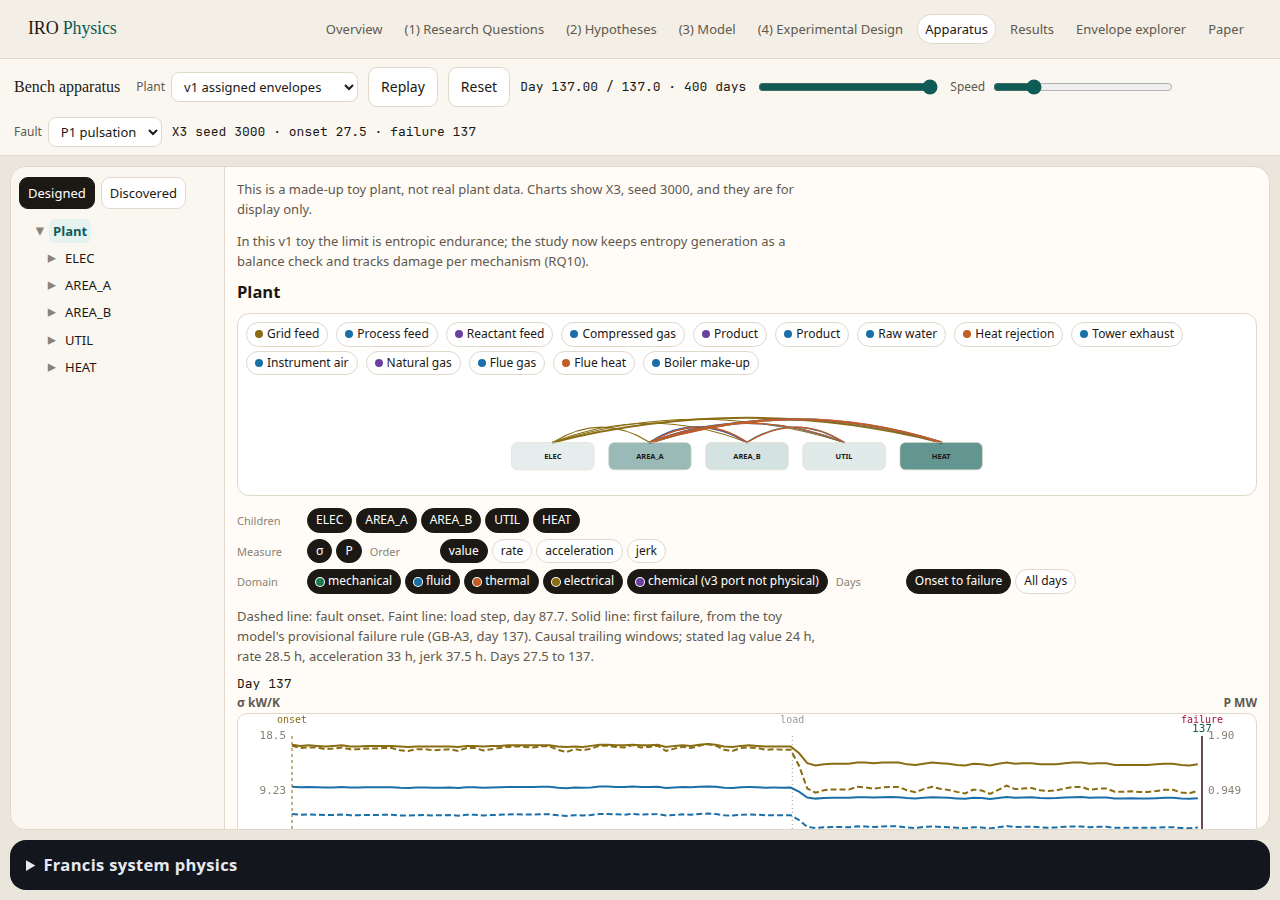
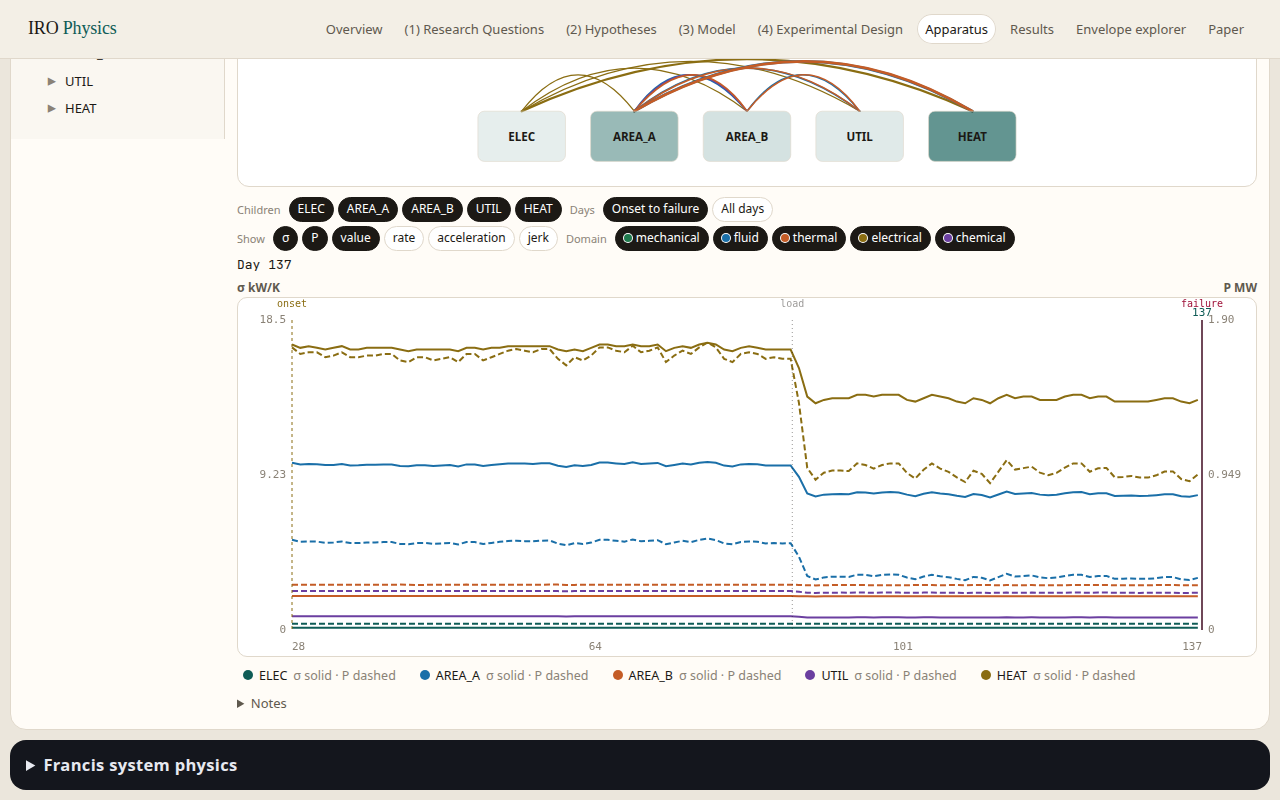
Give the v3 chart half the window and stop clipping it
The plot is 45% of the viewport and the children diagram is 30%. Notes sit in a toggle under the legend, the page can scroll, and the Francis bar stays below the chart.

diff --git a/site/js/envelope-board.js b/site/js/envelope-board.js
@@ -119,26 +119,30 @@ export function mountBoard(root, { clock, onSpan } = {}) {
         <div class="nav-tree" data-nav-tree></div>
       </aside>
       <div class="board-main">
-        <p class="ex-note" data-notice>This is a made-up toy plant, not real plant data. The charts are for display only.</p>
-        <p class="ex-note" data-caveat>In this v1 toy the limit is entropic endurance; the study now keeps entropy generation as a balance check and tracks damage per mechanism (RQ10).</p>
         <nav class="crumbs" data-crumbs aria-label="Envelope path"></nav>
         <div class="board-top">
           <div class="port-row" data-ports></div>
-          <p class="ex-note port-note" data-port></p>
           <div class="diagram" data-diagram></div>
         </div>
         <div class="filters" data-filters></div>
-        <p class="ex-note" data-chart-note></p>
         <p class="now-read" data-now></p>
         <div class="axis-labels"><span data-axis-left></span><span data-axis-right></span></div>
         <div class="chart-stage">
           <canvas data-chart></canvas>
           <div class="readout" data-readout hidden></div>
         </div>
-        <p class="scale-note" data-scale-note></p>
         <ul class="trace-legend" data-legend></ul>
-        <p class="sigma-check">σ is shown as an energy-balance check, not a damage measure.</p>
-        <p class="plant-sigma" data-plant-caption hidden></p>
+        <details class="board-notes">
+          <summary>Notes</summary>
+          <p class="ex-note" data-notice>This is a made-up toy plant, not real plant data. The charts are for display only.</p>
+          <p class="ex-note" data-caveat>In this v1 toy the limit is entropic endurance; the study now keeps entropy generation as a balance check and tracks damage per mechanism (RQ10).</p>
+          <p class="ex-note" data-chart-note></p>
+          <p class="ex-note port-note" data-port></p>
+          <p class="scale-note" data-scale-note></p>
+          <p class="ex-note">Chemical is labelled chemical (v3 port not physical): the v3 chemical port is not a physical species balance.</p>
+          <p class="sigma-check">σ is shown as an energy-balance check, not a damage measure.</p>
+          <p class="plant-sigma" data-plant-caption hidden></p>
+        </details>
       </div>
     </div>`;
 
@@ -460,7 +464,7 @@ export function mountBoard(root, { clock, onSpan } = {}) {
   function renderPorts() {
     const ports = portsOf(node(parentId)).filter((entry) => domainsOn.has(entry.domain));
     portsEl.innerHTML = ports.map((entry) =>
-      `<button type="button" class="port-chip" data-port-detail="${esc(entry.detail)}" title="${esc(entry.detail)}"><i style="background:${DOMAIN[entry.domain] || "#888"}"></i>${esc(entry.name)}</button>`
+      `<button type="button" class="port-dot" data-port-detail="${esc(entry.detail)}" title="${esc(entry.detail)}" aria-label="${esc(entry.detail)}"><i style="background:${DOMAIN[entry.domain] || "#888"}"></i></button>`
     ).join("");
   }
 
@@ -496,14 +500,14 @@ export function mountBoard(root, { clock, onSpan } = {}) {
       return;
     }
     const width = 860;
-    const height = 210;
-    const boxW = Math.min(148, Math.max(78, (width - 48) / children.length - 18));
-    const boxH = 48;
-    const span = width - 36 - boxW;
+    const height = 320;
+    const boxW = Math.min(210, Math.max(128, (width - 40) / children.length - 28));
+    const boxH = 78;
+    const span = width - 24 - boxW;
     const boxes = {};
     children.forEach((child, index) => {
-      const x = 18 + (children.length === 1 ? (width - boxW) / 2 : (span * index) / (children.length - 1));
-      boxes[child.id] = { x, y: 118, w: boxW, h: boxH, child, index };
+      const x = 12 + (children.length === 1 ? (width - boxW) / 2 : (span * index) / Math.max(1, children.length - 1));
+      boxes[child.id] = { x, y: 210, w: boxW, h: boxH, child, index };
     });
     const groups = new Map();
     edges.forEach((edge) => {
@@ -523,7 +527,7 @@ export function mountBoard(root, { clock, onSpan } = {}) {
         const y2 = b.y;
         const shift = (index - (list.length - 1) / 2) * 7;
         const mid = (x1 + x2) / 2 + shift;
-        const lift = 78 - Math.min(46, Math.abs(x2 - x1) * 0.08);
+        const lift = 118 - Math.min(70, Math.abs(x2 - x1) * 0.12);
         const pa = liveValue(edge.a, "boundary_power");
         const pb = liveValue(edge.b, "boundary_power");
         const flow = pa != null && pb != null ? (Math.abs(pa) + Math.abs(pb)) / 2 : null;
@@ -541,7 +545,7 @@ export function mountBoard(root, { clock, onSpan } = {}) {
       const fill = level ? `rgba(15,92,86,${(0.1 + 0.55 * level).toFixed(3)})` : (on ? "#e5f2f0" : "#fff");
       return `<g data-child="${esc(child.id)}" tabindex="0" role="button" aria-pressed="${on ? "true" : "false"}">
         <rect x="${box.x.toFixed(1)}" y="${box.y}" width="${box.w}" height="${box.h}" rx="10" fill="${fill}" stroke="${on ? "#0f5c56" : "#e0d8cb"}" stroke-width="${on ? 2.4 : 1}"></rect>
-        <text x="${(box.x + box.w / 2).toFixed(1)}" y="${box.y + 29}" text-anchor="middle" font-size="13" font-weight="650" fill="#1c1915">${esc(labelOf(child))}</text>
+        <text x="${(box.x + box.w / 2).toFixed(1)}" y="${box.y + 46}" text-anchor="middle" font-size="18" font-weight="700" fill="#1c1915">${esc(labelOf(child))}</text>
         <title>${esc(child.name)}</title>
       </g>`;
     }).join("");
@@ -564,15 +568,14 @@ export function mountBoard(root, { clock, onSpan } = {}) {
       `<button type="button" class="chip-btn" data-order="${index}" aria-pressed="${orders.has(index) ? "true" : "false"}">${orderTitle(meta, index)}</button>`
     ).join("");
     const domainChips = Object.keys(DOMAIN).map((name) =>
-      `<button type="button" class="chip-btn" data-domain="${name}" aria-pressed="${domainsOn.has(name) ? "true" : "false"}"><i style="background:${DOMAIN[name]}"></i>${esc(domainLabel(name))}</button>`
+      `<button type="button" class="chip-btn" data-domain="${name}" aria-pressed="${domainsOn.has(name) ? "true" : "false"}" title="${esc(domainLabel(name))}"><i style="background:${DOMAIN[name]}"></i>${esc(name)}</button>`
     ).join("");
     const windows = `
       <button type="button" class="chip-btn" data-win="fault" aria-pressed="${windowMode === "fault" ? "true" : "false"}">Onset to failure</button>
       <button type="button" class="chip-btn" data-win="all" aria-pressed="${windowMode === "all" ? "true" : "false"}">All days</button>`;
     filtersEl.innerHTML = `
-      <div class="filter-row"><span>Children</span><div>${childChips}</div></div>
-      <div class="filter-row"><span>Measure</span><div>${measureChips}</div><span>Order</span><div>${orderChips}</div></div>
-      <div class="filter-row"><span>Domain</span><div>${domainChips}</div><span>Days</span><div>${windows}</div></div>`;
+      <div class="filter-row"><span>Children</span><div>${childChips}</div><span>Days</span><div>${windows}</div></div>
+      <div class="filter-row"><span>Show</span><div>${measureChips}${orderChips}</div><span>Domain</span><div>${domainChips}</div></div>`;
   }
 
   function indicesFor(days) {

diff --git a/site/css/site.css b/site/css/site.css
@@ -140,8 +140,8 @@ h1 {
 .sigma-check { margin: 4px 0 8px; color: var(--muted); font-size: 12.5px; }
 .plant-sigma { margin: 0 0 10px; color: var(--muted); font-size: 13px; max-width: 88ch; }
 
-.board-root { height: 100%; min-height: 0; }
-.board { display: flex; height: 100%; min-height: 0; }
+.board-root { height: auto; min-height: 0; }
+.board { display: flex; height: auto; min-height: 0; align-items: flex-start; }
 .board-nav {
   width: 214px;
   flex: none;
@@ -152,7 +152,8 @@ h1 {
 }
 .board-nav .seg { margin-bottom: 8px; flex-wrap: wrap; align-items: flex-start; }
 .board-nav .btn { padding: 5px 8px; font-size: 13px; }
-.diagram svg { width: 100%; height: 120px; display: block; }
+.diagram { flex: 1; min-height: 0; }
+.diagram svg { width: 100%; height: 100%; display: block; }
 .nav-list { list-style: none; margin: 0; padding: 0 0 0 12px; }
 .nav-list > li { margin: 1px 0; }
 .nav-pick, .twist {
@@ -167,9 +168,9 @@ h1 {
 .nav-pick { text-align: left; padding: 2px 4px; border-radius: 6px; font-size: 13px; }
 .nav-pick[aria-current="true"] { background: var(--teal-soft); color: var(--teal); font-weight: 700; }
 .board-main {
-  flex: 1; min-width: 0; min-height: 0; overflow: auto;
+  flex: 1; min-width: 0; min-height: 0; overflow: visible;
   display: flex; flex-direction: column;
-  padding: 8px 12px 12px;
+  padding: 6px 12px 8px;
 }
 .now-read { margin: 0 0 4px; font-family: var(--mono); font-size: 13px; color: var(--ink); min-height: 1.2em; }
 .board-main .ex-note { margin: 4px 0 8px; font-size: 13px; }
@@ -177,8 +178,18 @@ h1 {
 .crumbs button { border: 0; background: transparent; font: inherit; color: var(--teal); cursor: pointer; padding: 0; }
 .crumbs button[aria-current="page"] { color: var(--ink); font-weight: 700; cursor: default; }
 .crumbs span { color: var(--faint); }
-.board-top { border: 1px solid var(--line); border-radius: 12px; background: #fff; padding: 8px 8px 0; margin-bottom: 8px; }
-.port-row { display: flex; flex-wrap: wrap; gap: 4px 8px; min-height: 18px; }
+.board-top {
+  height: 30vh; min-height: 200px;
+  display: flex; flex-direction: column;
+  border: 1px solid var(--line); border-radius: 12px; background: #fff;
+  padding: 6px 8px 4px; margin-bottom: 6px;
+}
+.port-row { display: flex; flex-wrap: nowrap; gap: 6px; overflow-x: auto; height: 22px; flex: none; }
+.port-dot {
+  width: 16px; height: 16px; border: 0; border-radius: 50%; padding: 0;
+  background: transparent; cursor: pointer; flex: none;
+}
+.port-dot i { width: 12px; height: 12px; border-radius: 50%; display: block; }
 .port-chip, .chip-btn {
   display: inline-flex; align-items: center; gap: 4px;
   border: 1px solid var(--line); background: #fff; color: var(--ink);
@@ -190,12 +201,12 @@ h1 {
 .port-note { min-height: 0; margin: 4px 0; }
 .port-note:empty { display: none; }
 .diagram g { cursor: pointer; }
-.filters { display: flex; flex-direction: column; gap: 6px; margin: 4px 0 8px; }
-.filter-row { display: flex; flex-wrap: wrap; gap: 6px 8px; align-items: center; }
-.filter-row > span { font-size: 11px; color: var(--faint); min-width: 62px; }
-.filter-row > div { display: flex; flex-wrap: wrap; gap: 4px; }
+.filters { display: flex; flex-direction: column; gap: 4px; margin: 4px 0; flex: none; }
+.filter-row { display: flex; flex-wrap: nowrap; gap: 6px 8px; align-items: center; overflow-x: auto; }
+.filter-row > span { font-size: 11px; color: var(--faint); flex: none; }
+.filter-row > div { display: flex; flex-wrap: nowrap; gap: 4px; }
 .axis-labels { display: flex; justify-content: space-between; font-size: 12px; color: var(--muted); font-weight: 650; }
-.chart-stage { position: relative; flex: 1 1 180px; min-height: 160px; height: auto; }
+.chart-stage { position: relative; flex: none; height: 45vh; min-height: 360px; }
 .chart-stage canvas { width: 100%; height: 100%; display: block; background: #fff; border: 1px solid var(--line); border-radius: 10px; }
 .readout {
   position: absolute; z-index: 2; max-width: 240px;
@@ -208,7 +219,10 @@ h1 {
 .readout i { width: 8px; height: 8px; border-radius: 50%; display: block; flex: none; }
 .scale-note { margin: 4px 0; color: var(--muted); font-size: 12.5px; }
 .scale-note:empty { display: none; }
-.trace-legend { list-style: none; display: flex; flex-wrap: wrap; gap: 6px 12px; margin: 6px 0; padding: 0; }
+.trace-legend { list-style: none; display: flex; flex-wrap: wrap; gap: 4px 12px; margin: 4px 0 2px; padding: 0; flex: none; }
+.board-notes { margin: 4px 0 8px; flex: none; }
+.board-notes summary { cursor: pointer; color: var(--muted); font-size: 13px; }
+.board-notes .ex-note { margin: 6px 0; }
 .trace-legend button { border: 0; background: transparent; font: inherit; font-size: 12.5px; color: var(--ink); cursor: pointer; display: inline-flex; gap: 6px; align-items: center; }
 .trace-legend button[aria-pressed="true"] { font-weight: 700; }
 .trace-legend i { width: 10px; height: 10px; border-radius: 50%; display: block; }
@@ -225,18 +239,19 @@ h1 {
   .board-nav.open { transform: none; }
   .nav-backdrop { display: block; position: fixed; inset: 0; background: rgba(28, 25, 21, 0.28); z-index: 25; }
   .nav-backdrop[hidden] { display: none; }
-  .chart-stage { height: 240px; }
+  .chart-stage { height: 45vh; min-height: 280px; }
+  .board-top { height: 30vh; min-height: 180px; }
 }
 .bench-column {
-  flex: 1;
+  flex: none;
   min-height: 0;
   display: flex;
   flex-direction: column;
-  overflow: auto;
+  overflow: visible;
   padding: 10px;
   gap: 10px;
 }
-.envelope-stage { flex: 1 1 auto; min-height: 0; overflow: hidden; }
+.envelope-stage { flex: none; min-height: 0; overflow: visible; height: auto; }
 .francis-fold {
   flex: none;
   background: #14161d;
@@ -253,7 +268,7 @@ h1 {
 .francis-body { height: 680px; }
 .francis-body .physics { height: 100%; }
 @media (max-width: 1100px) {
-  #envelope .board { height: 100%; min-height: 0; }
+  #envelope .board { height: auto; min-height: 0; }
 }
 .pane .nest-root { height: 100%; overflow: auto; padding: 10px 12px 28px; }
 @media (min-width: 1100px) {
@@ -458,7 +473,7 @@ figure.plate p { margin: 0; color: var(--muted); max-width: 78ch; }
 }
 
 /* Bench */
-body.app { height: 100vh; overflow: hidden; display: flex; flex-direction: column; background: #ebe6dc; }
+body.app { min-height: 100vh; height: auto; overflow: visible; display: flex; flex-direction: column; background: #ebe6dc; }
 body.app .top { flex: none; }
 .bench-bar {
   flex: none;
@@ -496,6 +511,7 @@ body.app .top { flex: none; }
   overflow: hidden;
 }
 .pane-scroll { overflow: auto; display: flex; flex-direction: column; height: 100%; }
+.envelope-stage.pane { overflow: visible; height: auto; flex: none; }
 
 .physics {
   background: #14161d;
@@ -720,7 +736,7 @@ body.app .top { flex: none; }
 .asset { cursor: pointer; }
 
 @media (max-width: 1100px) {
-  body.app { height: 100dvh; overflow: hidden; }
+  body.app { height: auto; min-height: 100vh; overflow: visible; }
   .split { flex-direction: column; overflow: auto; }
   .pane { flex: none; min-height: 0; }
   .env-stage { min-height: 280px; height: auto; }
